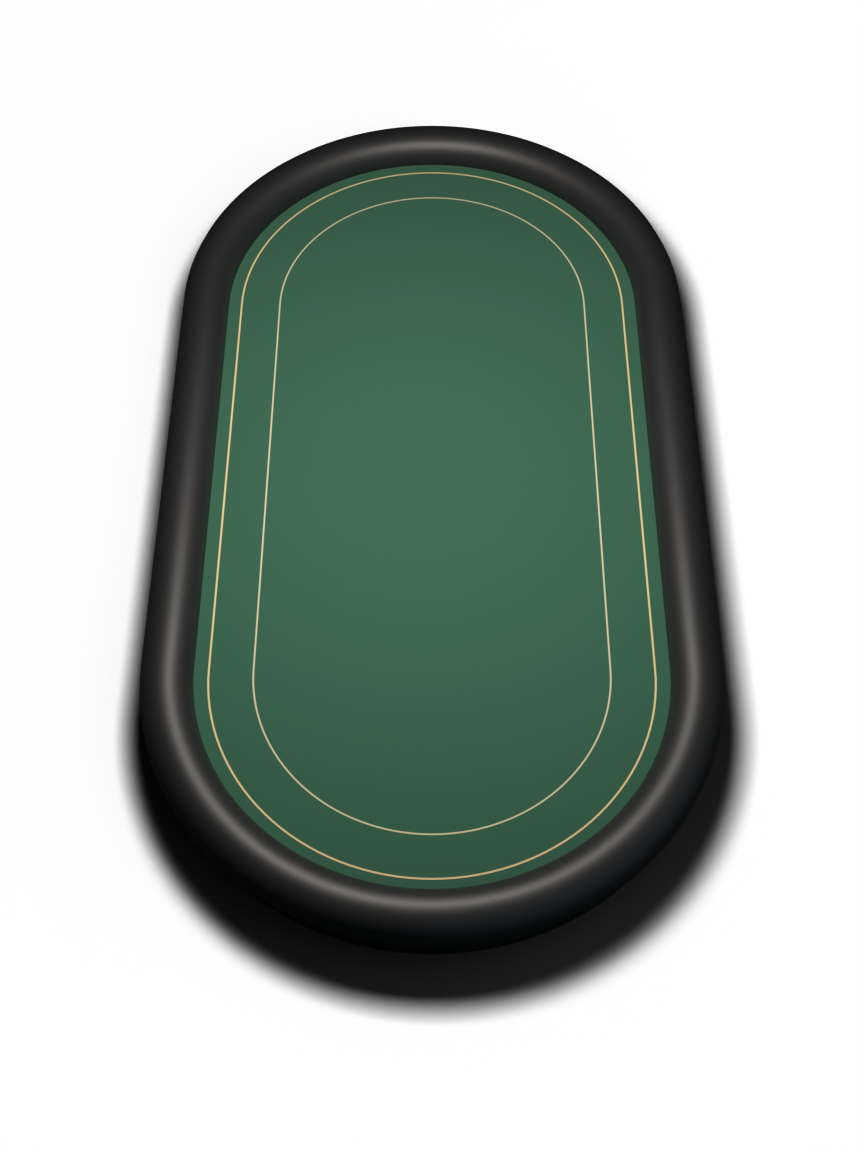
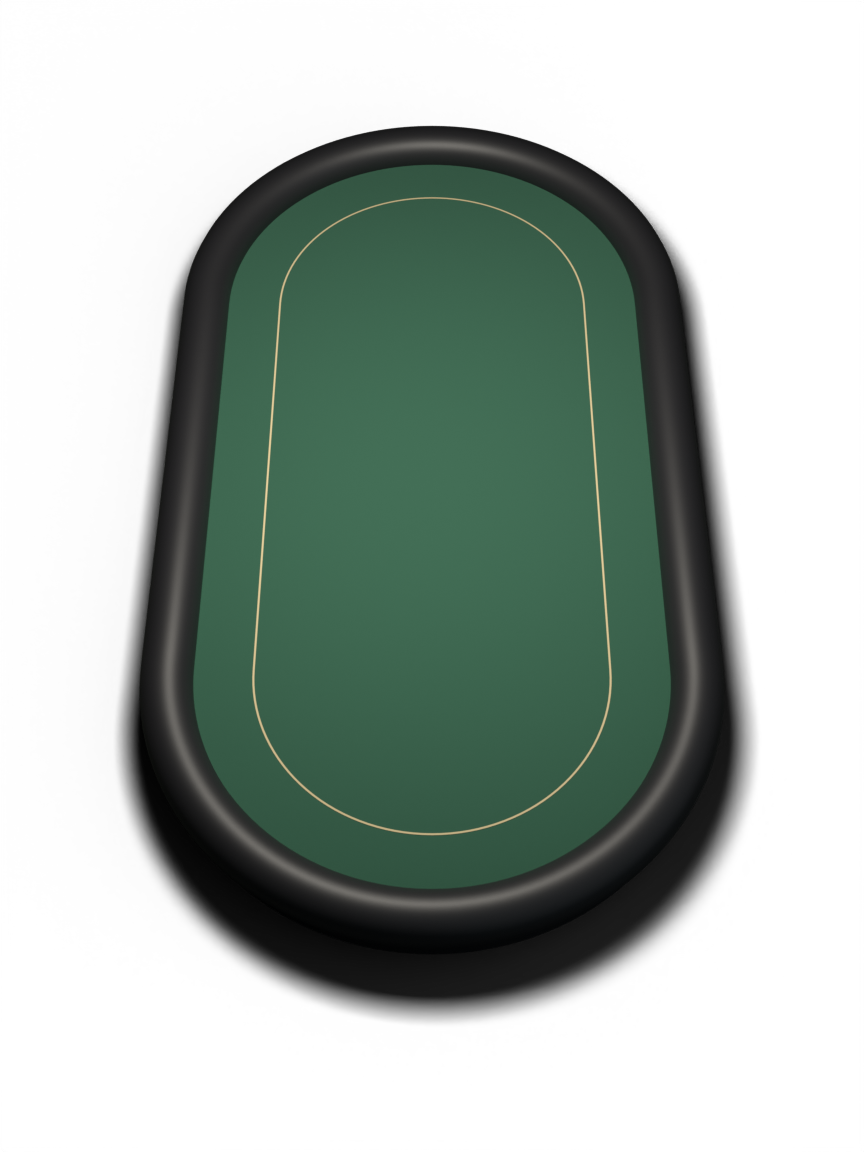
fix(table): one betting line on the cloth, not two
A second gold ring followed the first a finger away, close enough that
it read as a printing error rather than as trim. The betting line is the
one that means something - chips go behind it - so it stays, a shade
warmer and a hair wider now it stands alone, and the trim ring is gone.

diff --git a/scripts/render-table-3d.py b/scripts/render-table-3d.py
@@ -204,11 +204,13 @@ def build():
     body = stadium('body', z=-SKIRT, extrude=SKIRT / 2, inset=-RAIL_RADIUS * 0.55)
     body.data.materials.append(material('body', (0.014, 0.014, 0.016), 0.6))
 
-    ribbon('line', RAIL_RADIUS * 3.2, 0.0035, 0.0008, material('line', (0.6, 0.56, 0.36), 0.8))
-
+    # One line, and it is the betting line: far enough in from the cushion that
+    # it is plainly a line players put chips behind. A second ring following it
+    # a finger away read as a printing error rather than as trim.
+    #
     # Painted gold rather than polished: a mirror ring can only be bright on
     # the arc that faces the lamp, and the rest of it goes out.
-    ribbon('inlay', RAIL_RADIUS * 1.5, 0.004, 0.0011, material('brass', (0.72, 0.57, 0.3), 0.85))
+    ribbon('line', RAIL_RADIUS * 3.2, 0.004, 0.0009, material('line', (0.66, 0.54, 0.31), 0.85))
 
     bpy.ops.mesh.primitive_plane_add(size=12, location=(0, 0, -SKIRT - 0.02))
     floor = bpy.context.active_object
